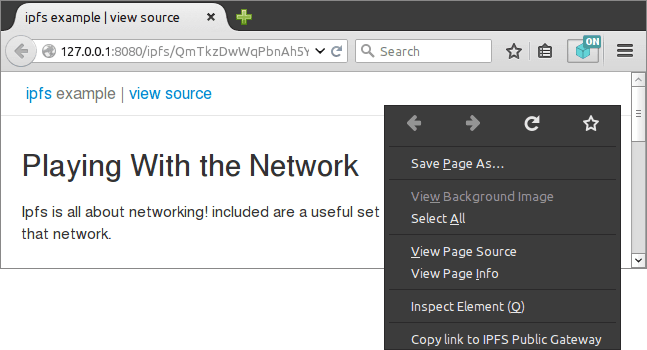
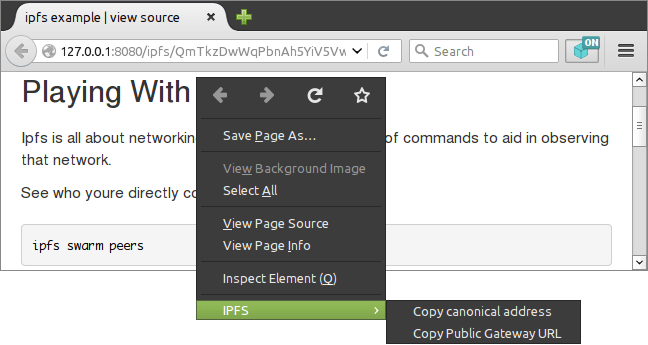
Cleanup and documentation for v1.2.0

diff --git a/lib/gateways.js b/lib/gateways.js
@@ -8,11 +8,10 @@ var cm = require('sdk/context-menu');
 var prefs = require('sdk/simple-prefs').prefs;
 var ioservice = Cc['@mozilla.org/network/io-service;1'].getService(Ci.nsIIOService);
 var gui = require('./gui.js');
-var proto = require('./protocols.js');
 
-const IPFS_RESOURCE      = /^https?:\/\/[^\/]+\/ip(f|n)s\//;
+const IPFS_RESOURCE = /^https?:\/\/[^\/]+\/ip(f|n)s\//;
 var PUBLIC_GATEWAY_HOSTS; // getPublicGatewayHostsRegex()
-var PUBLIC_GATEWAY_URI;   // getDefaultPublicURI();
+var PUBLIC_GATEWAY_URI; // getDefaultPublicURI();
 var CUSTOM_GATEWAY_URI;
 
 function getPublicGatewayHostList() {
@@ -21,14 +20,14 @@ function getPublicGatewayHostList() {
 
 function getDefaultPublicURI() {
   var hosts = getPublicGatewayHostList();
-  return ioservice.newURI('https://'+hosts[0], null, null);
+  return ioservice.newURI('https://' + hosts[0], null, null);
 }
 
 function getPublicGatewayHostsRegex() {
   var hosts = getPublicGatewayHostList();
   var hostsRegex = '';
-  for (var i=0; i < hosts.length; i++) {
-    if (i>0) {
+  for (var i = 0; i < hosts.length; i++) {
+    if (i > 0) {
       hostsRegex += '|';
     }
     hostsRegex += hosts[i].replace(/[^\w\s]/g, '\\$&');
@@ -67,7 +66,7 @@ var ipfsRequestObserver = {
 
 function reloadCachedProperties(changedProperty) { // jshint unused:false
   // public gateways
-  PUBLIC_GATEWAY_URI   = getDefaultPublicURI();
+  PUBLIC_GATEWAY_URI = getDefaultPublicURI();
   PUBLIC_GATEWAY_HOSTS = getPublicGatewayHostsRegex();
 
   // custom gateway
@@ -75,10 +74,10 @@ function reloadCachedProperties(changedProperty) { // jshint unused:false
 
   // context menus
   let menuContexts = gui.getMenuItemsContexts();
-  for (var i=0;i<menuContexts.length;i++) {
+  for (var i = 0; i < menuContexts.length; i++) {
     let context = menuContexts[i];
     context.add(cm.URLContext(CUSTOM_GATEWAY_URI.spec + '*'));
-  };
+  }
 }
 
 function enableHttpGatewayRedirect(button) {

diff --git a/lib/gui.js b/lib/gui.js
@@ -85,11 +85,11 @@ const COPY_PUBLIC_HTTP_URL = cm.Item({
   }
 });
 
-const IPFS_MENU = cm.Menu({
+cm.Menu({
   label: 'IPFS',
   items: [COPY_IPFS_ADDRESS, COPY_PUBLIC_HTTP_URL]
 });
 
 exports.getMenuItemsContexts = function() {
-  return [COPY_PUBLIC_HTTP_URL.context,COPY_IPFS_ADDRESS.context];
+  return [COPY_PUBLIC_HTTP_URL.context, COPY_IPFS_ADDRESS.context];
 };

diff --git a/lib/protocols.js b/lib/protocols.js
@@ -9,7 +9,7 @@ var gw = require('./gateways.js');
 
 const IPFS_SCHEME = 'ipfs';
 const IPNS_SCHEME = 'ipns';
-const FS_SCHEME   = 'fs';
+const FS_SCHEME = 'fs';
 
 function CommonProtocolHandler() {}
 

diff --git a/README.md b/README.md
@@ -7,7 +7,7 @@ Firefox addon that provides transparent access to IPFS resources via local HTTP2
 
 If you are using Chrome or Chromium, check [ipfs-chrome-extension](https://github.com/dylanPowers/ipfs-chrome-extension) instead.
 
-![screenshot v0.2.0](screenshot.png)
+![screenshot v1.2.0](screenshot.png)
 
 ### Features
 
@@ -19,10 +19,11 @@ If you are using Chrome or Chromium, check [ipfs-chrome-extension](https://githu
 - list of public gateways can be customized too,  
   default is `ipfs.io` with second being the legacy `gateway.ipfs.io`
 - requests to custom protocols are routed to the active gateway (public or custom):
-   - `(ipfs|ipns):$RESOURCE`
-   - `(ipfs|ipns)://$RESOURCE` 
+   - `(ipfs|ipns):/*$RESOURCE`
+   - `fs:/*(ipfs|ipns)/$RESOURCE`
 - context menu under right click on a page from custom gateway   
-  contains an option to copy shareable link to resource at default public gateway (first one on the list)
+  contains options to copy canonical IPFS address    
+  and a shareable URL to a resource at a default public gateway (first one on the list)
 
 ### How to install
 
